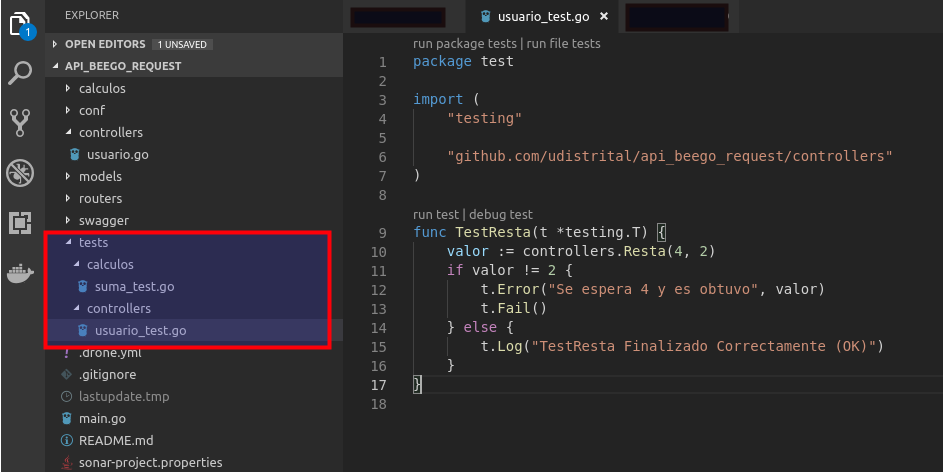
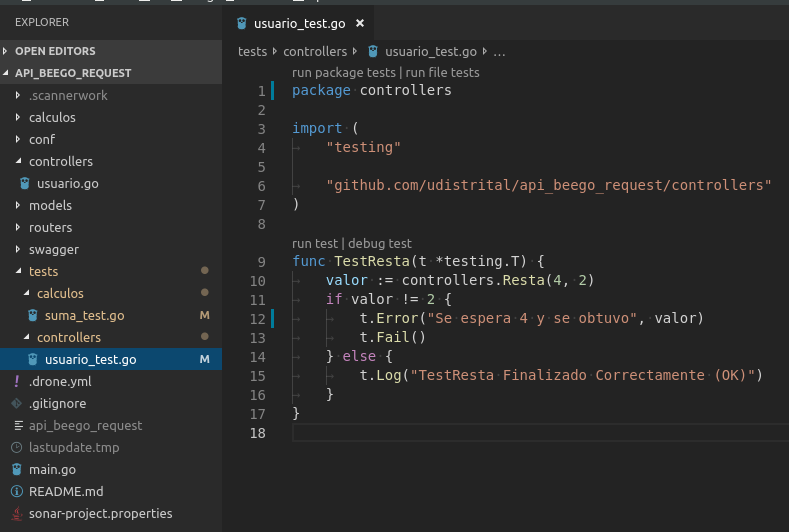
ajustes documentacion pruebas unitarias crud

diff --git a/pruebas_unitarias_api_beego/crud_test.md b/pruebas_unitarias_api_beego/crud_test.md
@@ -2,7 +2,9 @@
 
 ## Requisitos
 
-Contamos con una API creada según lineamiento [Generar API Beego](/generacion_de_apis/generar_api.md), para propósitos de este ejercicio se ha creado el API  [api_beego_request](https://github.com/udistrital/api_beego_request)
+- Contar con una API creada según los lineamiento de la oas y que se especifican en este enlace [Generar API Beego](/generacion_de_apis/generar_api.md)
+
+- Para propósitos de este ejercicio se ha creado el API  [api_beego_request](https://github.com/udistrital/api_beego_request)
 
 ## Test de Funcinalidades
 
@@ -35,7 +37,7 @@ El archivo *suma_test.go* contendrá la siguiente prueba unitaria:
 
 
 ```golang
-package test
+package controllers
 
 import (
 	"testing"
@@ -46,7 +48,7 @@ import (
 func TestResta(t *testing.T) {
 	valor := controllers.Resta(4, 2)
 	if valor != 2 {
-		t.Error("Se espera 4 y es obtuvo", valor)
+		t.Error("Se espera 4 y se obtuvo", valor)
 		t.Fail()
 	} else {
 		t.Log("TestResta Finalizado Correctamente (OK)")
@@ -72,7 +74,7 @@ Y su respectivo paquete de pruebas
 ![Prueba Unitaria 01](/pruebas_unitarias_api_beego/img/test_04.png)
 
 ```golang
-package test
+package calculos
 import (
 	"testing"
 
@@ -82,7 +84,7 @@ import (
 func TestSuma(t *testing.T) {
 	valor := calculos.Suma(2, 2)
 	if valor != 4 {
-		t.Error("Se espera 4 y es obtuvo", valor)
+		t.Error("Se espera 4 y se obtuvo", valor)
 		t.Fail()
 	} else {
 		t.Log("TestSuma Finalizado Correctamente (OK)")
